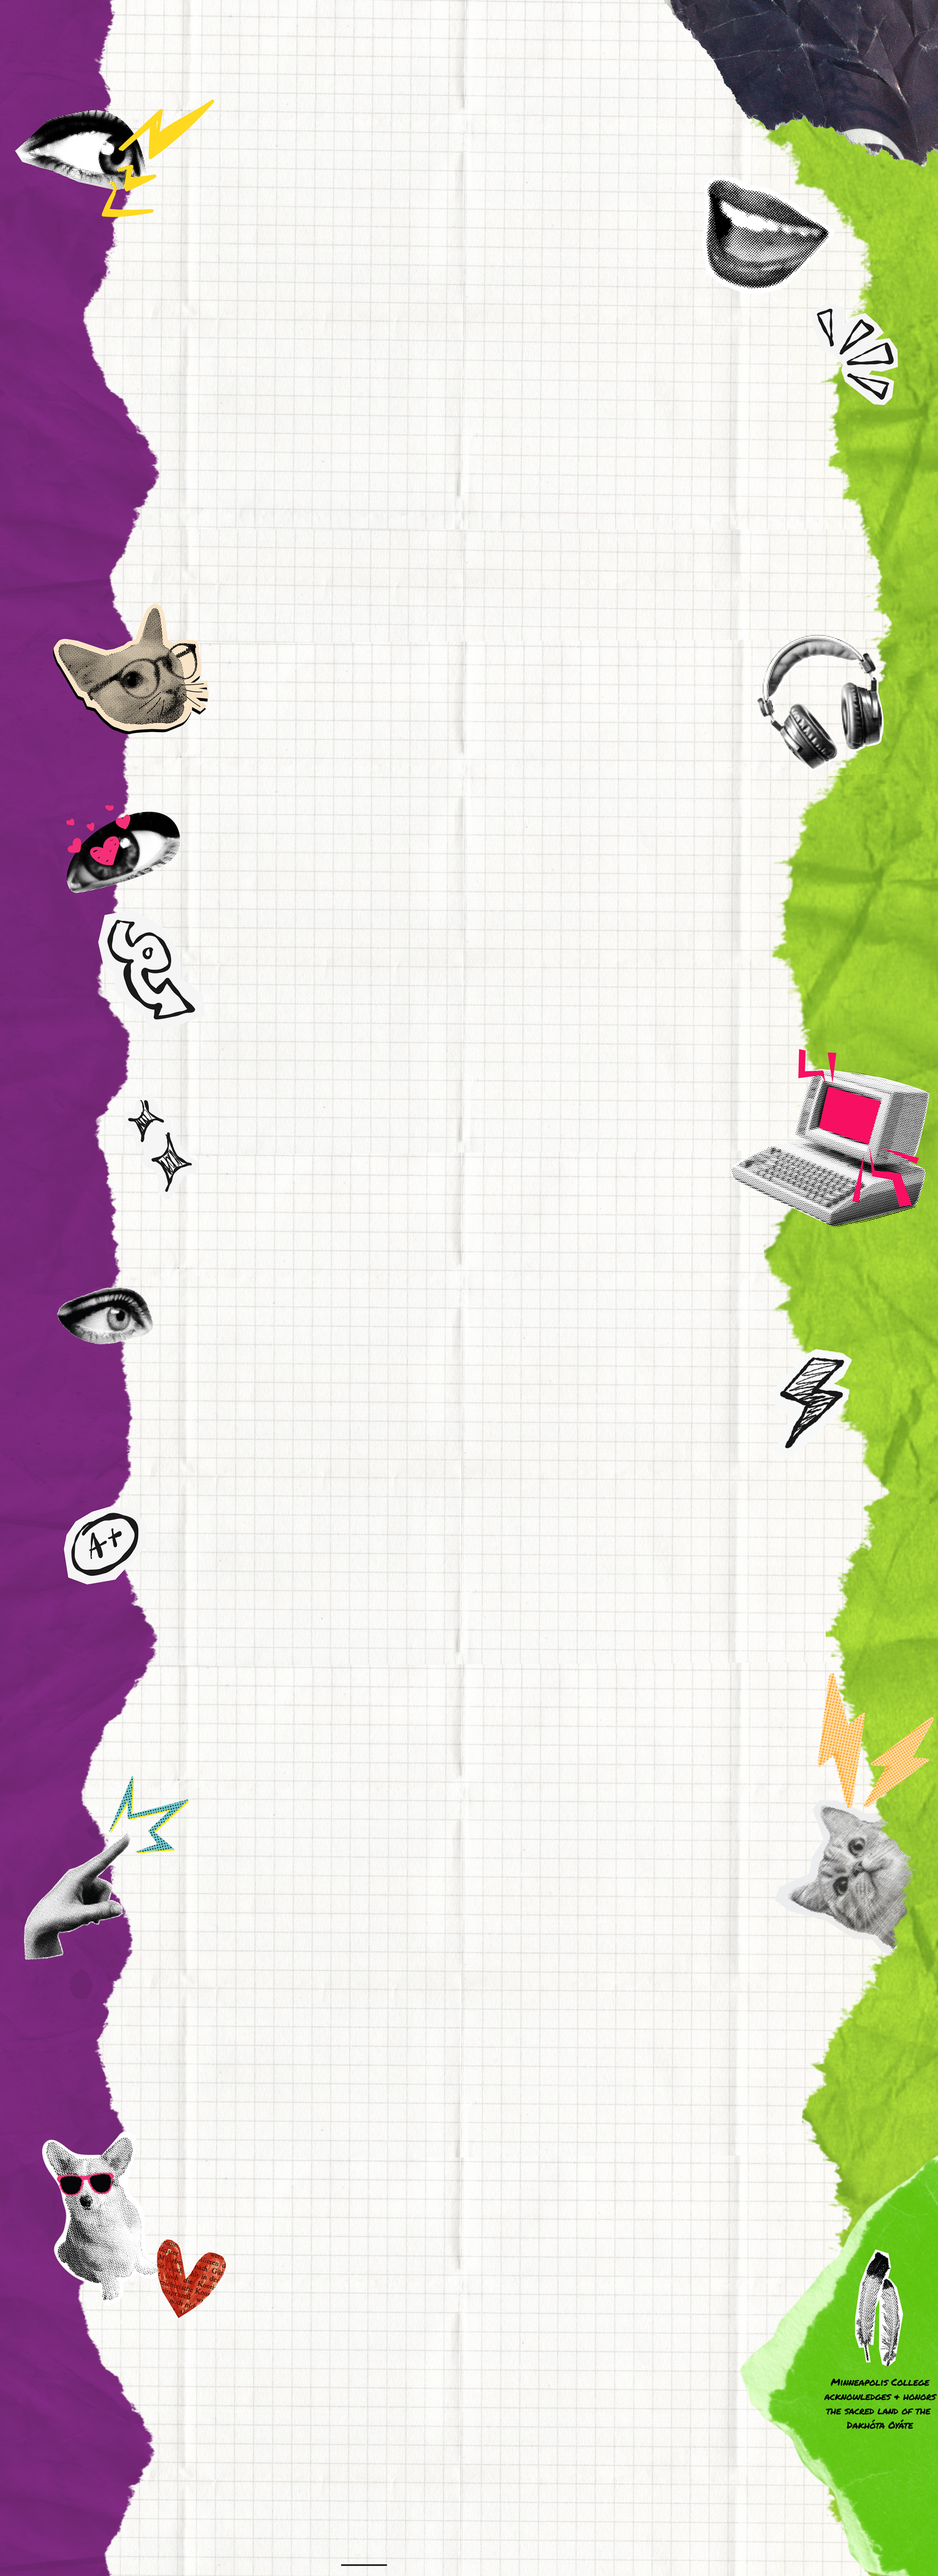
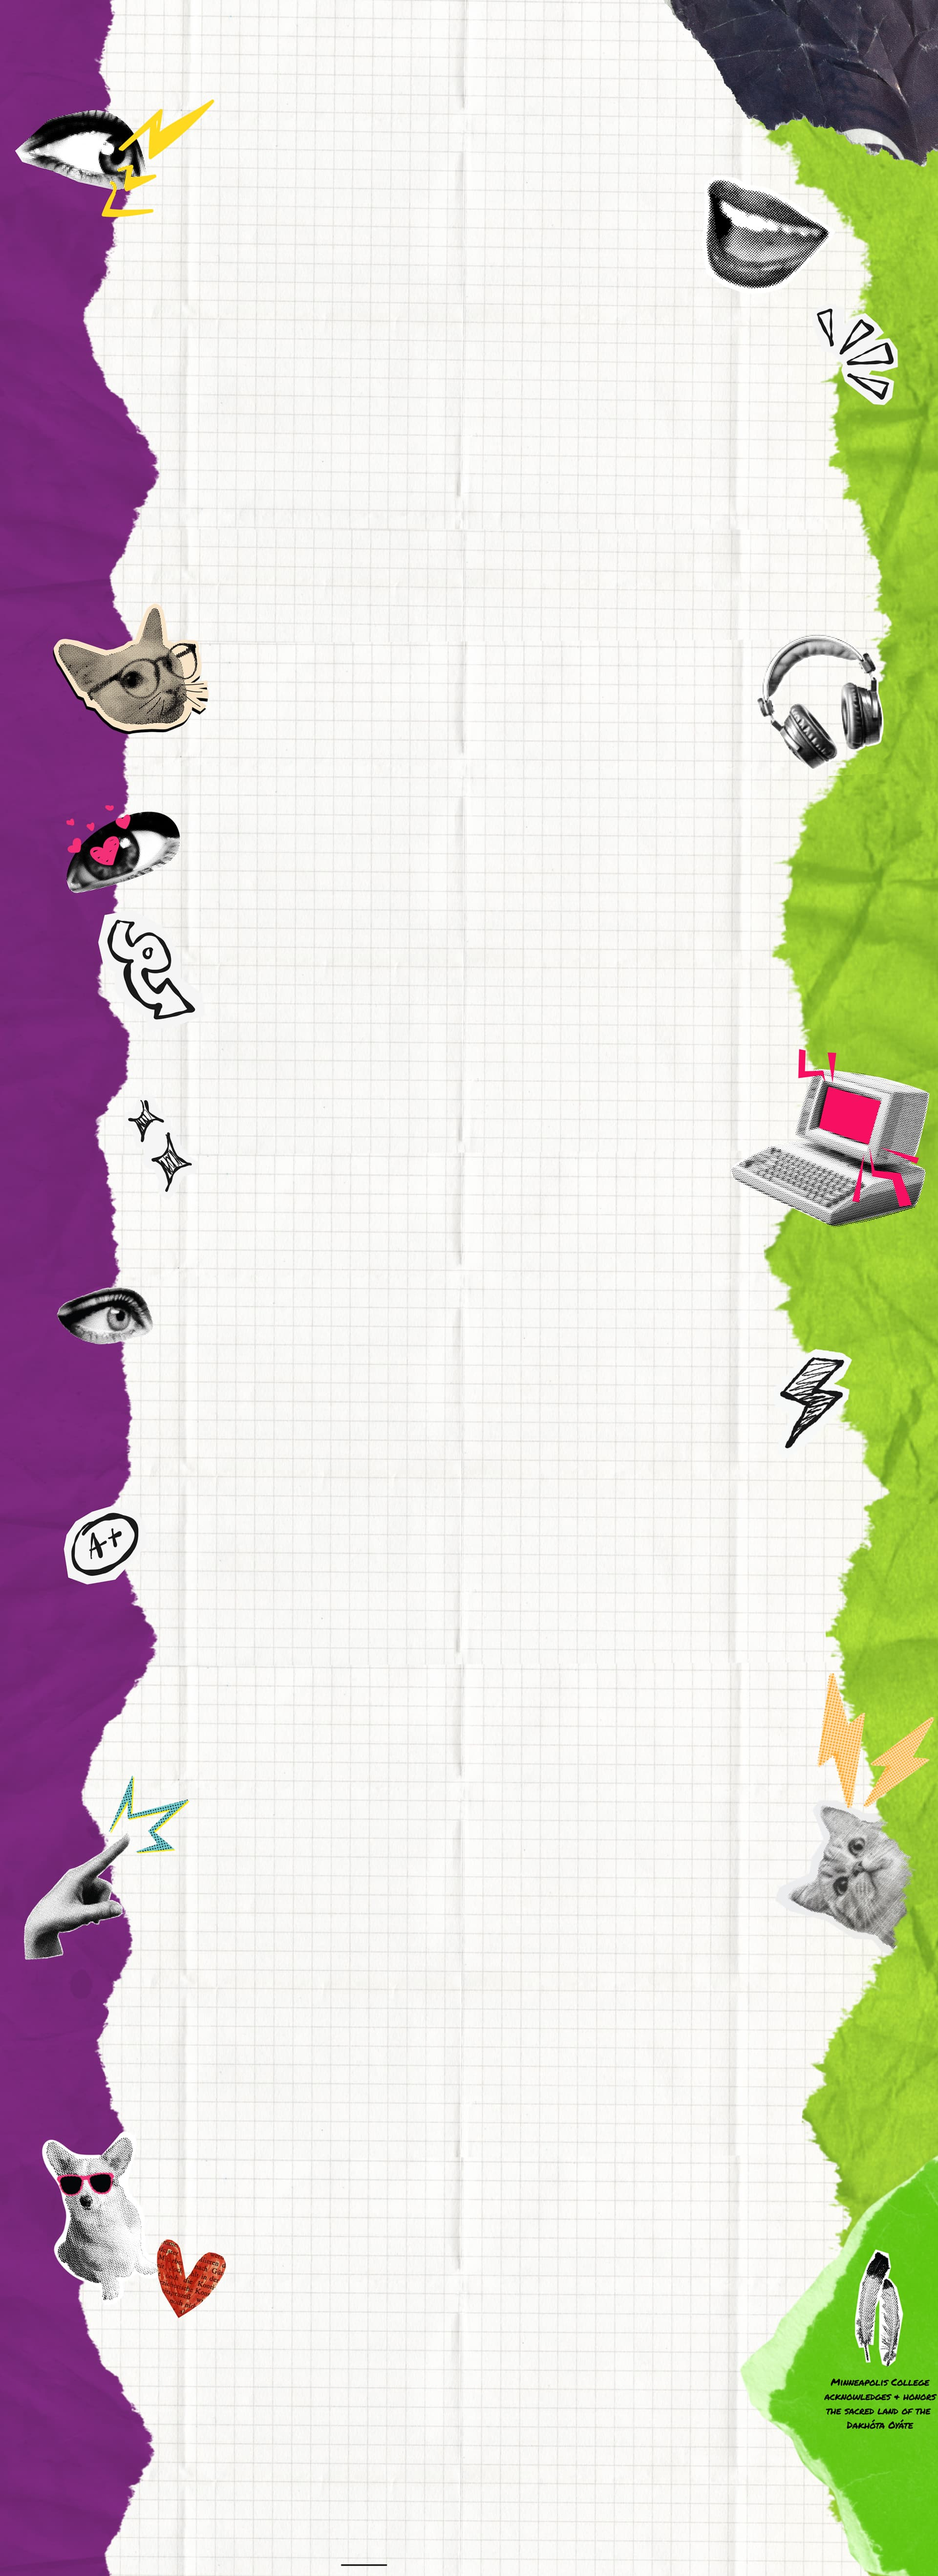
optimized images and removed duplicate code in the css file

diff --git a/styles.css b/styles.css
@@ -5,31 +5,6 @@ body {
   /* background-attachment: fixed; */
   background-size: cover;
 }
-.nav-link:hover {
-  text-decoration: underline;
-}
-
-#info {
-  background-image: url(images/HeaderScrap.png);
-  background-repeat: no-repeat;
-  background-size: 100% 100%;
-  background-position: center;
-  min-height: 500px;
-  position: relative;
-  z-index: 1;
-  width: 100%;
-  padding: 3rem;
-  aspect-ratio: 16/9;
-}
-
-#info > * {
-  position: relative;
-  z-index: 2;
-  max-width: 90%;
-  margin: 0 auto;
-}
-
-
 
 @font-face {
   font-family: "Impact";
